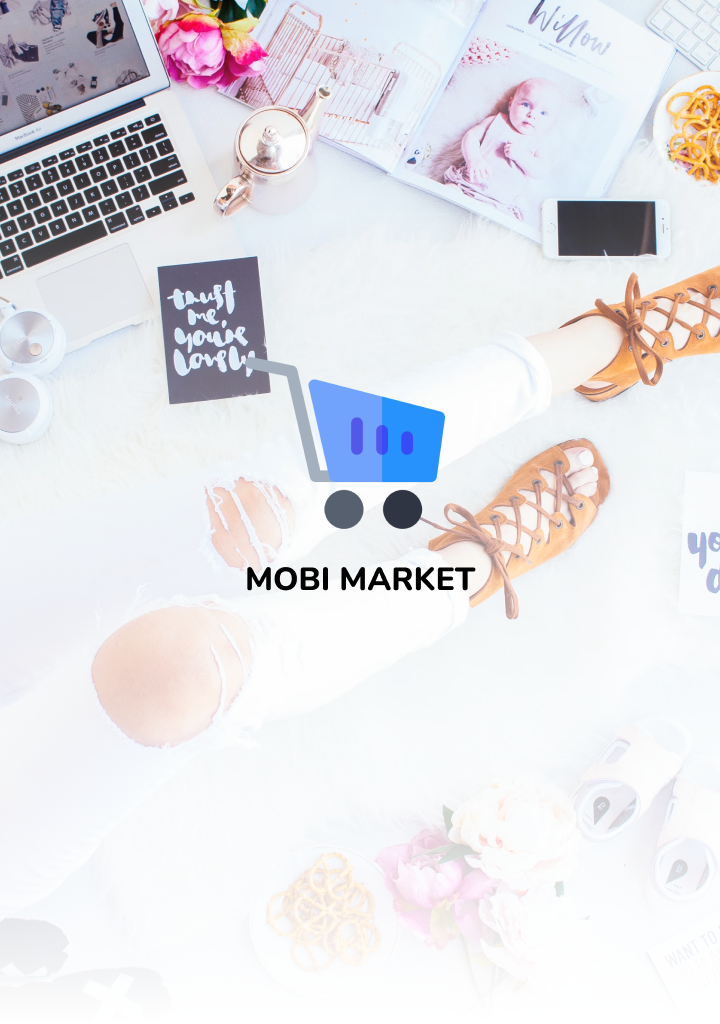
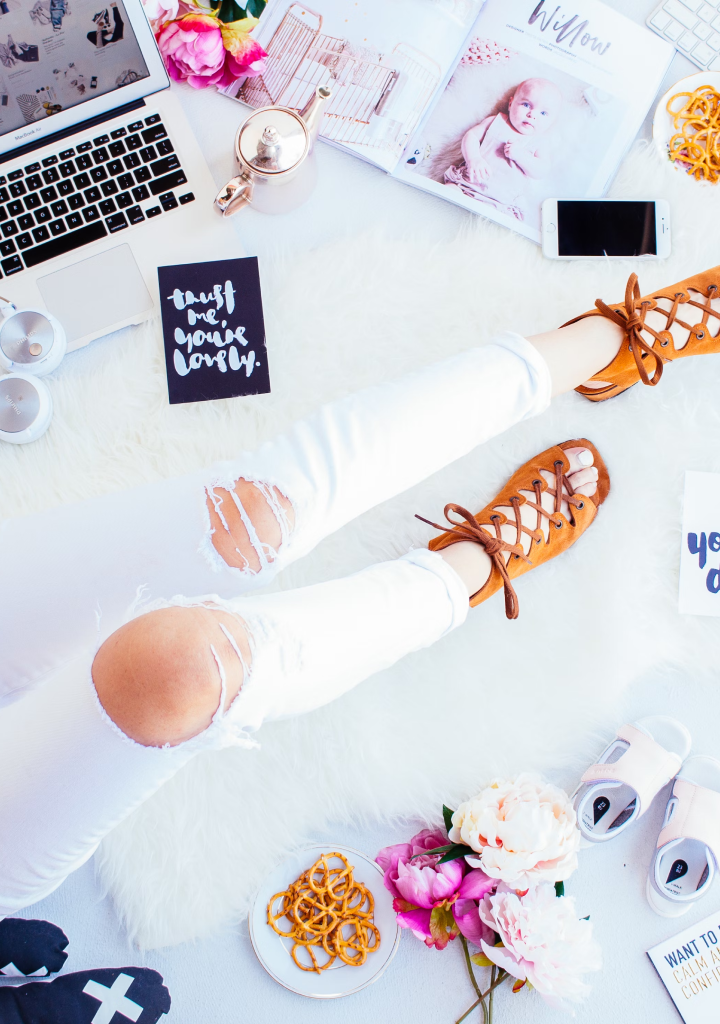
change bg photo

diff --git a/src/components/Profile.jsx b/src/components/Profile.jsx
@@ -6,7 +6,6 @@ import userImagePlaceholder from "../assets/userImagePlaceholder.png"
 import heart from "../assets/heart.png"
 import shop from "../assets/shop.png"
 import Exitt from "../assets/exit.png"
-import Codemodal from "../modalWindows/Codemodal";
 import {useEffect, useState} from "react";
 import {getProfileDetails} from "../api";
 import MyProducts from "./MyProducts";
@@ -30,11 +29,12 @@ function Profile(){
  const [addedProducts,setAddedProducts] = useState([]);
  const rerender = useSelector(state=> state.rerender);
  const removeLikedProducts = useSelector(state => state.removeLikedProducts);
-
+const userN = localStorage.getItem("username")
     useEffect(()=>{
        async function getUser  (){
         try{
-            const response = await getProfileDetails();
+            const response = await getProfileDetails(userN);
+            console.log("from Profile",response)
             setUsername(response.username)
             setName(response.firstname)
             setUserImage(response.imageUrl)
@@ -99,7 +99,7 @@ const getMyLikedProducts = async ()=>{
             <div className="profile-details">
                 <div className="user-info-container">
                     <img
-                    src={userImage?userImage:userImagePlaceholder}
+                    src={userImage}
                     alt={userImagePlaceholder}
                     onClick={()=>setSelectedCategory("profile")}
                     className="user-info-container__img"

diff --git a/src/components/ProfileDetails.jsx b/src/components/ProfileDetails.jsx
@@ -84,7 +84,7 @@ async function handleChange (event){
 useEffect(()=>{
   const updateImage = async ()=>{
     const formData = new FormData()
-    formData.append("multipartFile", fieldValue)
+    formData.append("multipartFile",fieldValue)
     const res = await updateProfileImage(formData)
     console.log(res)
   }

diff --git a/src/components/MyProducts.jsx b/src/components/MyProducts.jsx
@@ -52,7 +52,7 @@ return (
             <div className='my-product__image-container'>
                 <img 
                 className='my-product__image' 
-                src={image[0]?image[0]:cardImage} 
+                src={image[0]?image[0]:""} 
                 alt={image[0]} />
             </div>
 

diff --git a/src/components/LikedProducts.jsx b/src/components/LikedProducts.jsx
@@ -8,6 +8,7 @@ import { useDispatch } from 'react-redux';
 import { toggleRemoveLikedProducts } from '../redux';
 
 function LikedProducts({key,products}){
+  console.log(products)
 
   const [view,setView] = useState(false);
   const [disike, setDislike] = useState(false)

diff --git a/src/index.css b/src/index.css
@@ -713,9 +713,11 @@ margin: 0;
 .my-product__text-container{
   display: flex;
   flex-direction: column;
+  justify-content: space-between;
   gap: 1px;
   padding: 2px  0px 2px 5px;
   width: 100%;
+  height: 60px;
 }
 
 .edit-delete-card{
